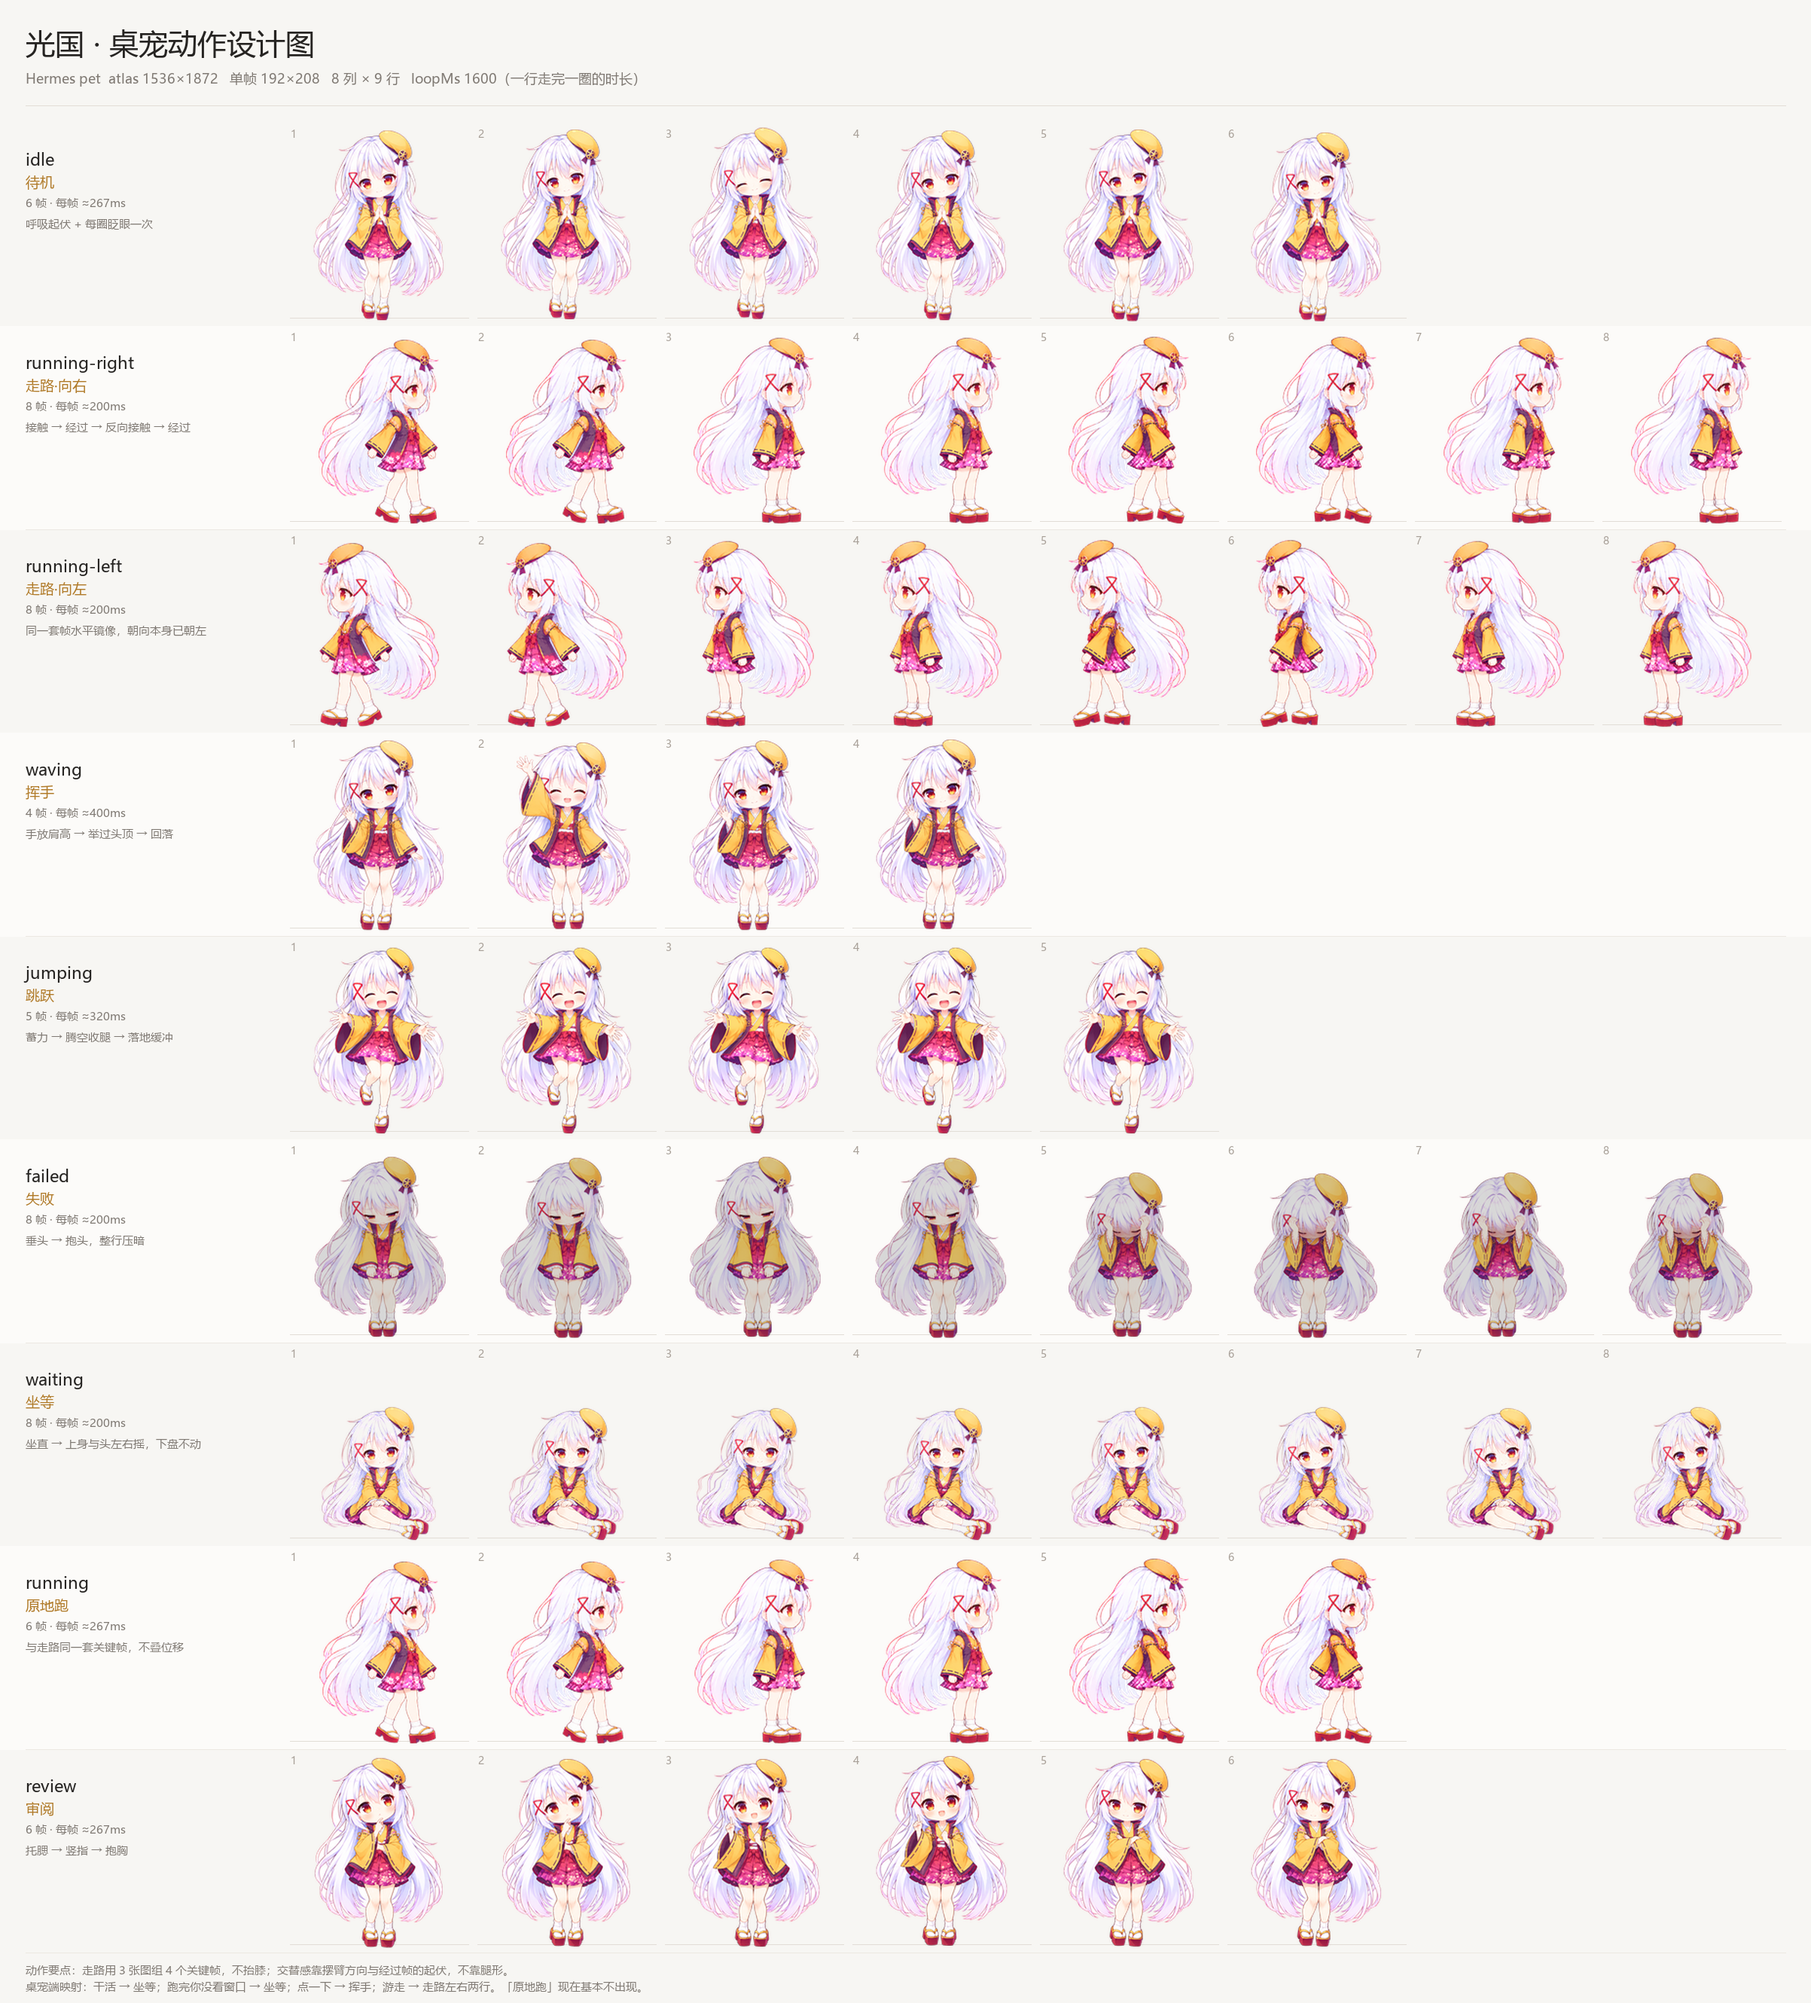
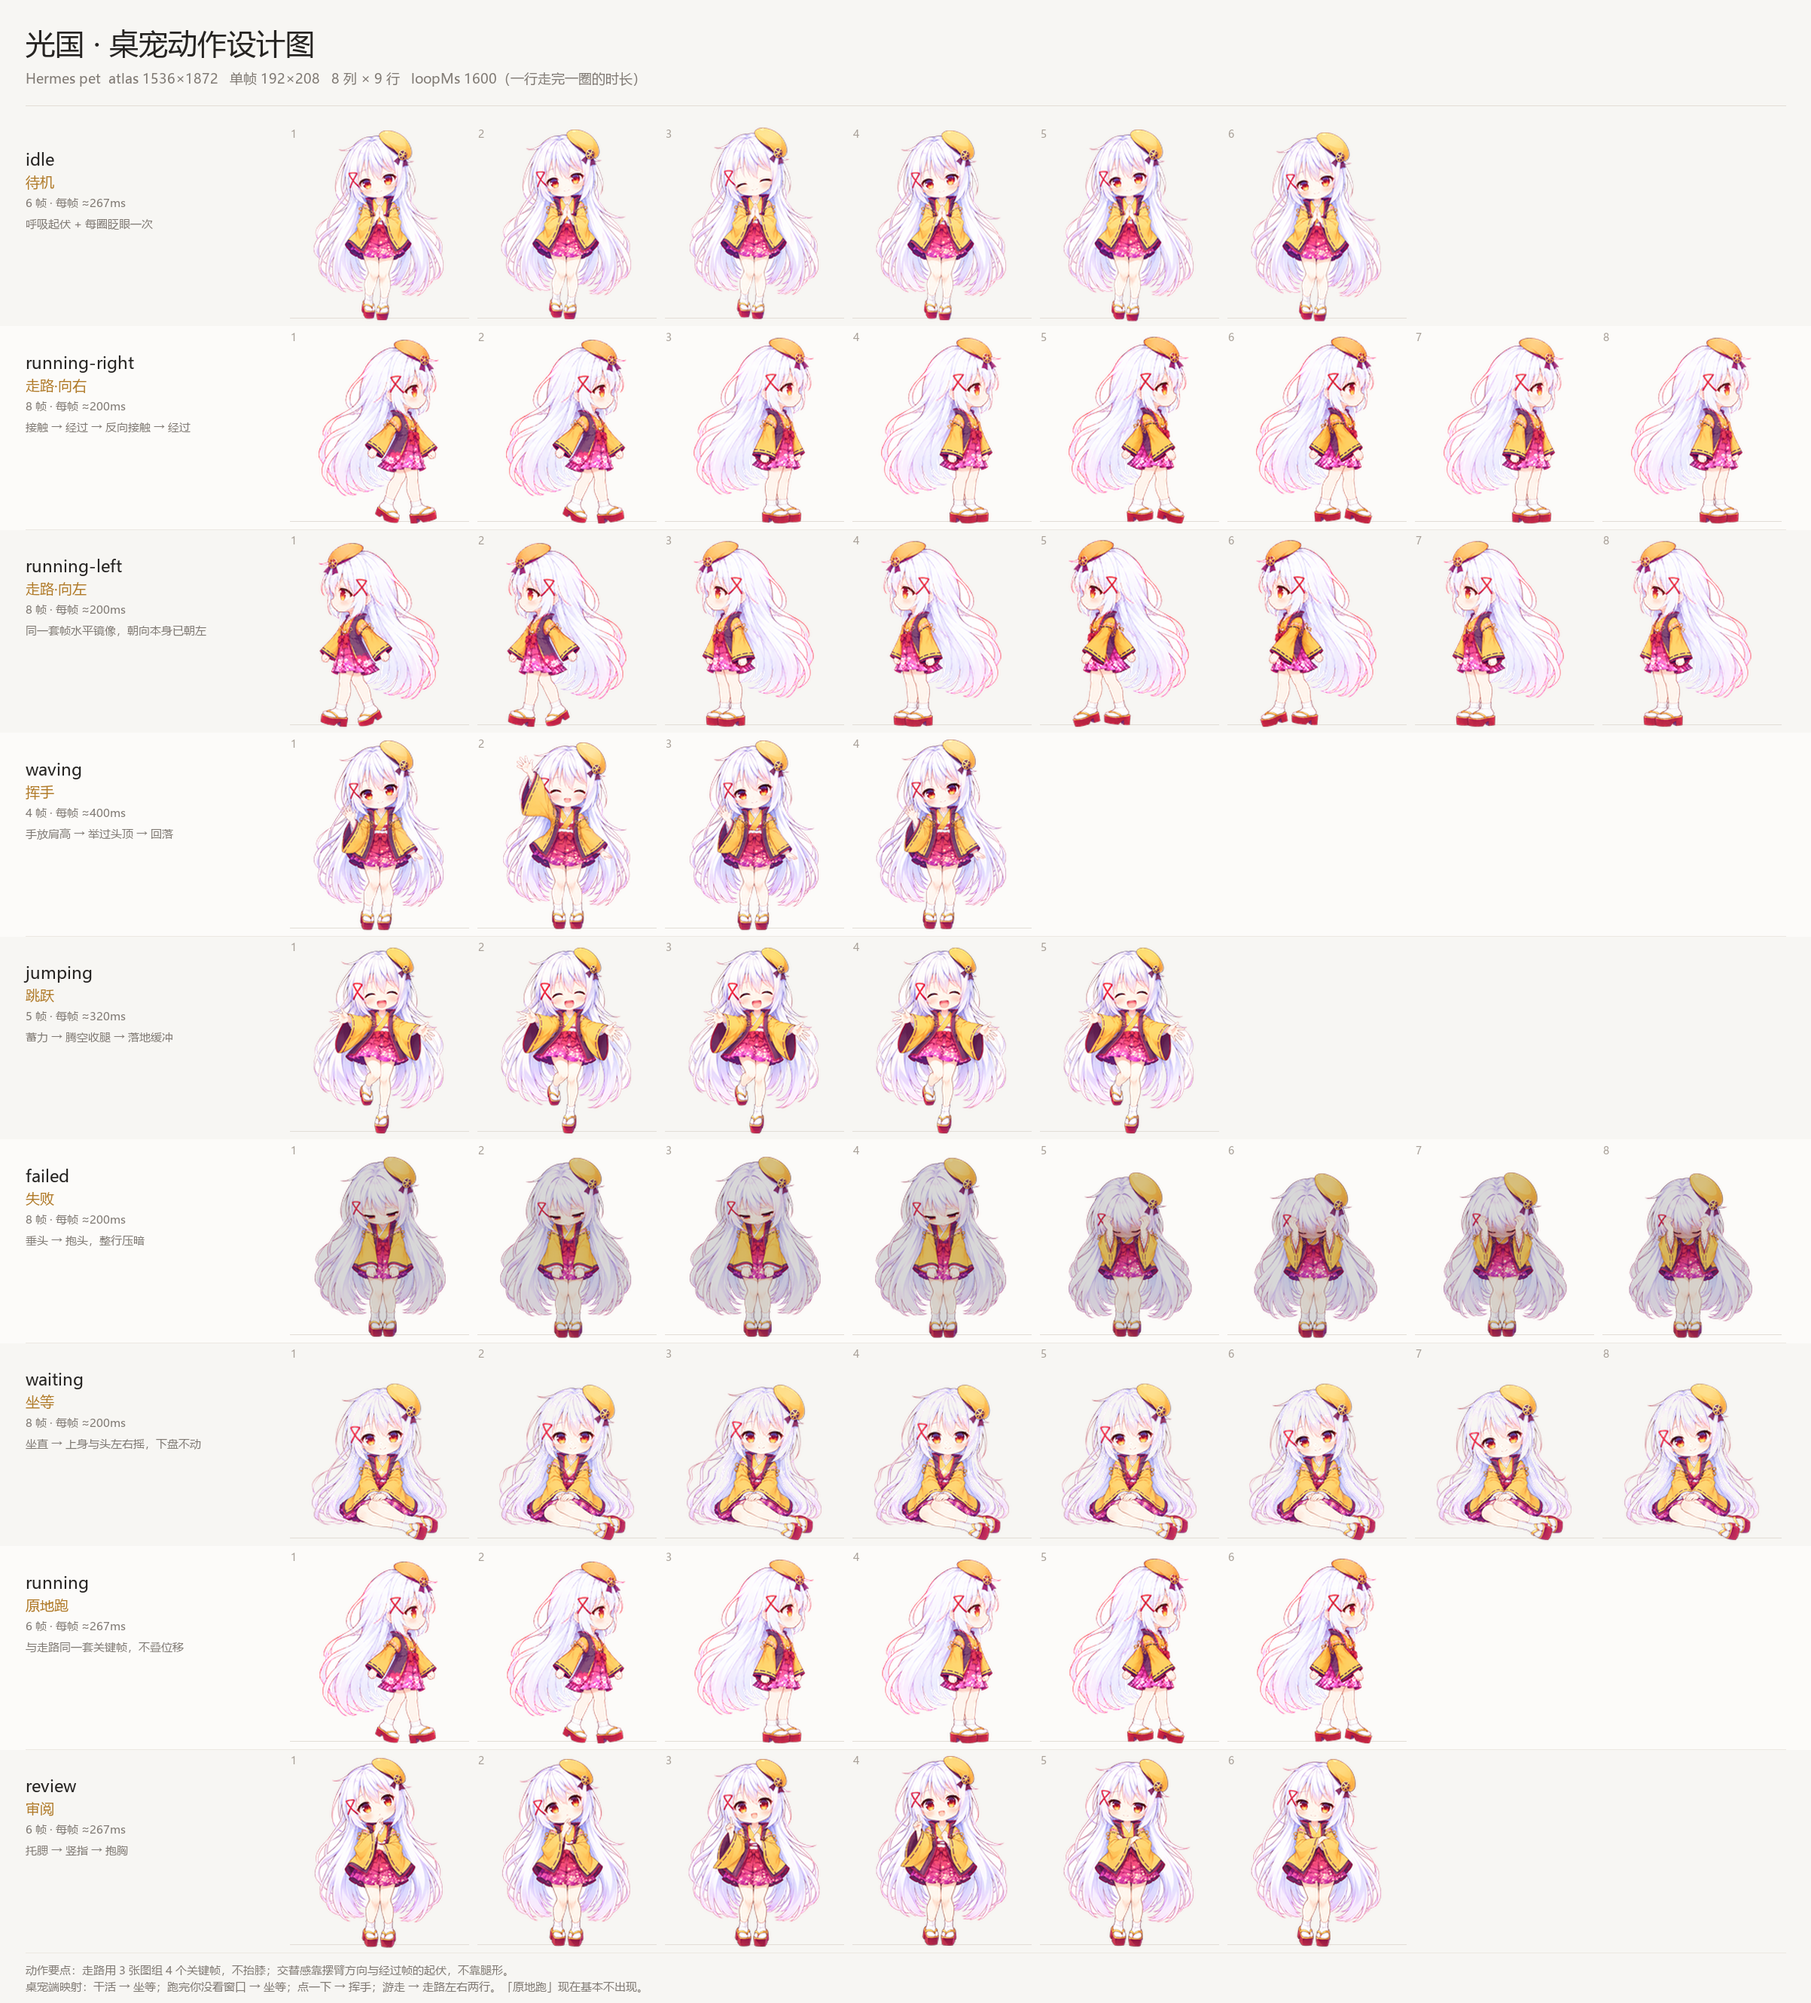
art: 坐等放大到 160px 高（源图重算，其余行像素不变）

diff --git a/scripts/build_atlas.py b/scripts/build_atlas.py
@@ -198,7 +198,7 @@ def build(src_dir, out_dir, loop_ms=LOOP_MS, walk_dir=WALK_DIR):
         "waving":        ("wave.png", 3, 194, "wave.png", None),
         "jumping":       (None, 1, 190, "jump.png", None),
         "failed":        ("fail.png", 2, 184, "fail.png", None),
-        "waiting":       ("wait.png", 2, 136, "idle.png", None),
+        "waiting":       ("wait.png", 2, 160, "idle.png", None),
         "running":       ("@walk", 0, 188, None, None),
         "review":        ("think.png", 3, 194, "idle.png", None),
     }
